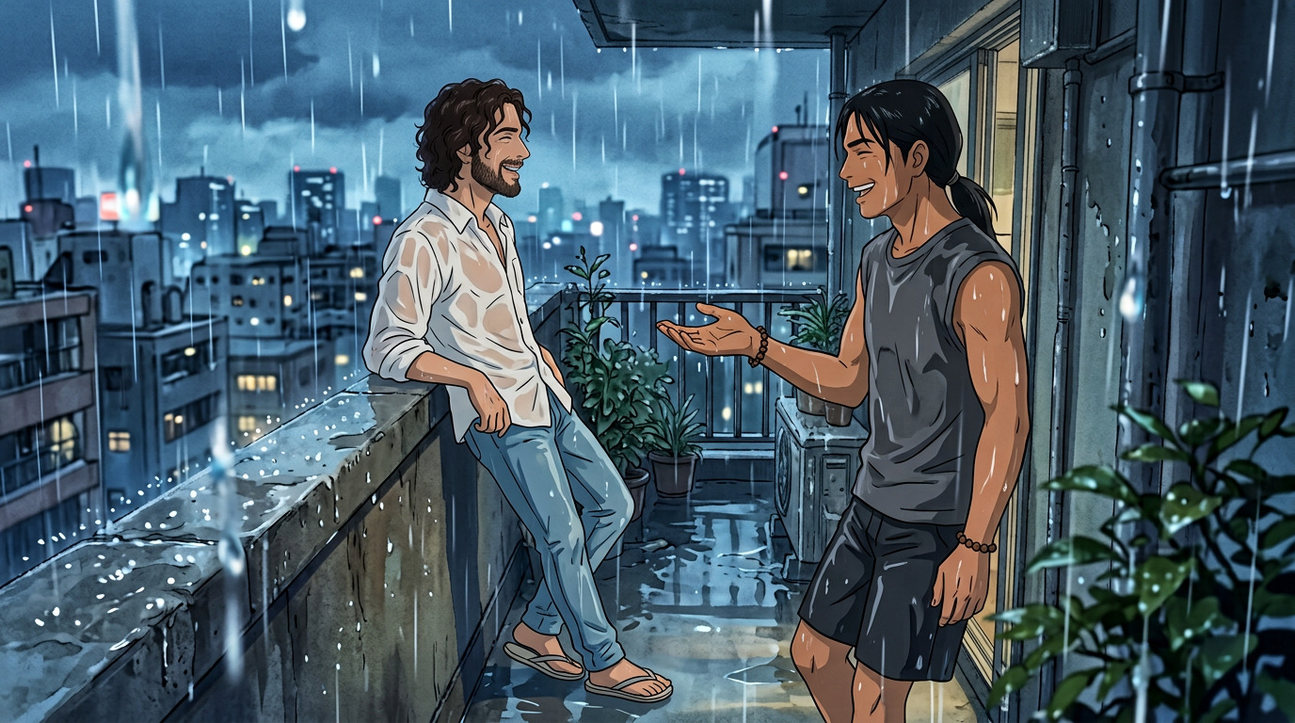
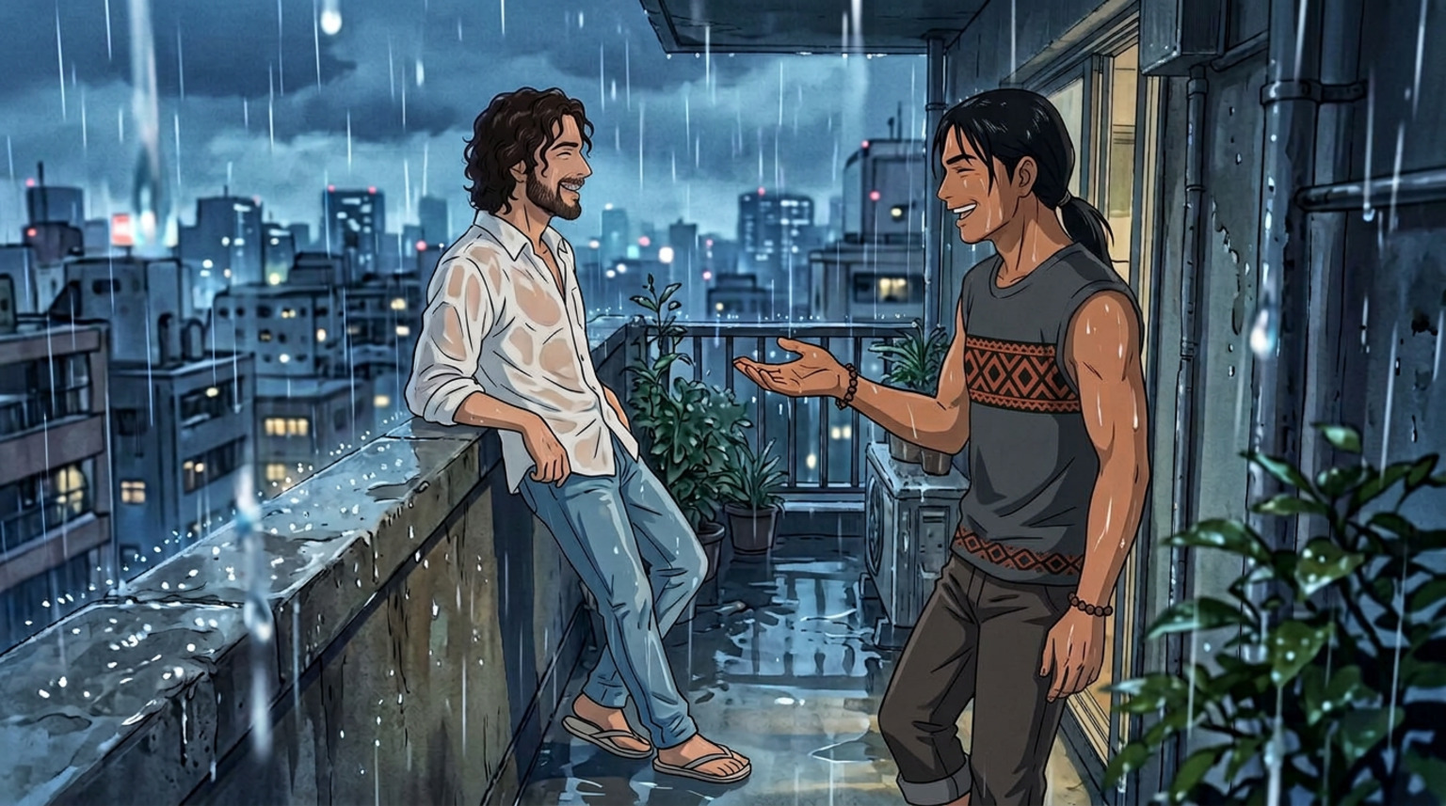
Padroniza o figurino do Tupa em todos os frames e corrige frames duplicados do ep03

diff --git a/historias/santos-do-cerrado/episodio-01-quarenta-graus.md b/historias/santos-do-cerrado/episodio-01-quarenta-graus.md
@@ -36,12 +36,12 @@ Plano aéreo de Cuiabá ao meio-dia com calor extremo; a câmera desce lentament
 
 **Prompt da imagem (frame):**
 ```text
-Interior de apartamento vazio em Cuiabá: sala pequena de piso de cerâmica bege, paredes descascadas, janela sem cortina com sol forte entrando e projetando retângulo de luz no chão. JESUS: homem brasileiro de 30 anos, pele morena clara, cabelo castanho-escuro cacheado na altura da nuca, barba curta, camisa de linho branca de botão com mangas dobradas, calça jeans clara, chinelo de dedo, pulseira de couro no pulso — entra sorrindo com uma caixa de papelão nos braços. TUPÃ: homem indígena de 30 anos, pele morena, rosto COMPLETAMENTE BARBEADO, sem barba, sem bigode, sem cavanhaque, sem tatuagens nos braços, cabelo preto liso na altura dos ombros preso em rabo de cavalo baixo, camiseta cinza-escura sem manga com grafismo geométrico guarani no peito, calça de sarja, sandália de couro, pulseira de sementes — atravessa a sala carregando um sofá velho nas costas, tranquilo. ESTILO: anime cinematográfico 2D, cel shading limpo, traço fino, fundo pintado à mão no estilo Ghibli x A-1 Pictures, luz brasileira quente, cores saturadas, grão de filme suave, 16:9, sem texto, sem letreiro, sem logo, sem legenda.
+Interior de apartamento vazio em Cuiabá: sala pequena de piso de cerâmica bege, paredes descascadas, janela sem cortina com sol forte entrando e projetando retângulo de luz no chão. JESUS: homem brasileiro de 30 anos, pele morena clara, cabelo castanho-escuro cacheado na altura da nuca, barba curta, camisa de linho branca de botão com mangas dobradas, calça jeans clara, chinelo de dedo, pulseira de couro no pulso — entra sorrindo com uma caixa de papelão nos braços. TUPÃ: homem indígena de 30 anos, pele morena, rosto COMPLETAMENTE BARBEADO, sem barba, sem bigode, sem cavanhaque, sem tatuagens nos braços, cabelo preto liso na altura dos ombros preso em rabo de cavalo baixo, camiseta regata cinza-escura com UMA faixa horizontal de grafismo geométrico guarani atravessada no peito (losangos e zigue-zagues em terracota e preto) e o mesmo motivo pequeno repetido na barra inferior, calça de sarja, sandália de couro, pulseira de sementes — atravessa a sala carregando um sofá velho nas costas, tranquilo. ESTILO: anime cinematográfico 2D, cel shading limpo, traço fino, fundo pintado à mão no estilo Ghibli x A-1 Pictures, luz brasileira quente, cores saturadas, grão de filme suave, 16:9, sem texto, sem letreiro, sem logo, sem legenda.
 ```
 
 **Prompt do vídeo (8 s):**
 ```text
-Sala vazia de apartamento com sol entrando pela janela. JESUS (camisa de linho branca, cabelo cacheado, barba curta) entra pela porta falando empolgado com uma caixa de papelão nos braços; TUPÃ (camiseta cinza sem manga, cabelo preto preso) atravessa o quadro de um lado ao outro com um sofá nas costas, sem esforço. Câmera travelling lateral lenta acompanhando o movimento, sem cortes. FALA JESUS: "Essa caixa tem dois mil anos e um liquidificador." FALA TUPÃ, sem parar: "Põe na sala." SOM: passos na cerâmica, caixa rangendo, cigarras pela janela. ESTILO: anime cinematográfico 2D, cel shading limpo, fundo pintado à mão, cores quentes, 16:9. SEM legenda.
+Sala vazia de apartamento com sol entrando pela janela. JESUS (camisa de linho branca, cabelo cacheado, barba curta) entra pela porta falando empolgado com uma caixa de papelão nos braços; TUPÃ (camiseta regata cinza-escura com faixa de grafismo guarani no peito, cabelo preto preso) atravessa o quadro de um lado ao outro com um sofá nas costas, sem esforço. Câmera travelling lateral lenta acompanhando o movimento, sem cortes. FALA JESUS: "Essa caixa tem dois mil anos e um liquidificador." FALA TUPÃ, sem parar: "Põe na sala." SOM: passos na cerâmica, caixa rangendo, cigarras pela janela. ESTILO: anime cinematográfico 2D, cel shading limpo, fundo pintado à mão, cores quentes, 16:9. SEM legenda.
 ```
 
 ---
@@ -56,12 +56,12 @@ Sala vazia de apartamento com sol entrando pela janela. JESUS (camisa de linho b
 
 **Prompt da imagem (frame):**
 ```text
-Sala de apartamento popular, luz quente de fim de tarde pela janela. JESUS: homem brasileiro de 30 anos, pele morena clara, cabelo castanho-escuro cacheado na altura da nuca, barba curta, camisa de linho branca de botão com mangas dobradas, calça jeans clara — descalço, agachado de frente para um ventilador de mesa antigo, mãos espalmadas sobre a grade, olhos fechados, com um fio de luz dourada contornando os dedos. TUPÃ: homem indígena de 30 anos, rosto completamente barbeado, sem barba e sem tatuagens nos braços, cabelo preto liso preso em rabo de cavalo baixo, camiseta cinza-escura sem manga com grafismo guarani, calça de sarja, pulseira de sementes, descalço — encostado no batente da porta, braços cruzados, meio-sorriso paciente. Parede com porta-retratos de família, samambaia pendurada e uma TV antiga pequena na estante; paredes domésticas comuns, SEM cruz, SEM crucifixo, SEM imagem religiosa. Sombras longas no piso de cerâmica. ESTILO: anime cinematográfico 2D, cel shading limpo, traço fino, fundo pintado à mão no estilo Ghibli x A-1 Pictures, cores saturadas, grão de filme suave, 16:9, sem texto, sem letreiro, sem logo, sem legenda.
+Sala de apartamento popular, luz quente de fim de tarde pela janela. JESUS: homem brasileiro de 30 anos, pele morena clara, cabelo castanho-escuro cacheado na altura da nuca, barba curta, camisa de linho branca de botão com mangas dobradas, calça jeans clara — descalço, agachado de frente para um ventilador de mesa antigo, mãos espalmadas sobre a grade, olhos fechados, com um fio de luz dourada contornando os dedos. TUPÃ: homem indígena de 30 anos, rosto completamente barbeado, sem barba e sem tatuagens nos braços, cabelo preto liso preso em rabo de cavalo baixo, camiseta regata cinza-escura com UMA faixa horizontal de grafismo geométrico guarani atravessada no peito (losangos e zigue-zagues em terracota e preto) e o mesmo motivo pequeno repetido na barra inferior, calça de sarja, pulseira de sementes, descalço — encostado no batente da porta, braços cruzados, meio-sorriso paciente. Parede com porta-retratos de família, samambaia pendurada e uma TV antiga pequena na estante; paredes domésticas comuns, SEM cruz, SEM crucifixo, SEM imagem religiosa. Sombras longas no piso de cerâmica. ESTILO: anime cinematográfico 2D, cel shading limpo, traço fino, fundo pintado à mão no estilo Ghibli x A-1 Pictures, cores saturadas, grão de filme suave, 16:9, sem texto, sem letreiro, sem logo, sem legenda.
 ```
 
 **Prompt do vídeo (8 s):**
 ```text
-JESUS, de camisa de linho branca, agachado diante do ventilador velho com as mãos sobre a grade e os olhos fechados; um fio de luz dourada percorre seus dedos, brilha mais forte e se apaga — o ventilador não gira. TUPÃ, de camiseta cinza sem manga, observa encostado no batente, cruza os braços e solta o ar pelo nariz com um meio-sorriso. Câmera fixa com aproximação muito lenta. FALA JESUS: "Ventilador abençoado não gira." SOM: silêncio quente, cigarras, um estalo de ventilador tentando ligar. ESTILO: anime cinematográfico 2D, cel shading limpo, fundo pintado à mão, cores quentes, 16:9. SEM legenda.
+JESUS, de camisa de linho branca, agachado diante do ventilador velho com as mãos sobre a grade e os olhos fechados; um fio de luz dourada percorre seus dedos, brilha mais forte e se apaga — o ventilador não gira. TUPÃ, de camiseta regata cinza-escura com faixa de grafismo guarani no peito, observa encostado no batente, cruza os braços e solta o ar pelo nariz com um meio-sorriso. Câmera fixa com aproximação muito lenta. FALA JESUS: "Ventilador abençoado não gira." SOM: silêncio quente, cigarras, um estalo de ventilador tentando ligar. ESTILO: anime cinematográfico 2D, cel shading limpo, fundo pintado à mão, cores quentes, 16:9. SEM legenda.
 ```
 
 ---
@@ -96,7 +96,7 @@ Chuva forte cai de repente sobre uma rua de bairro em Cuiabá: as poças explode
 
 **Prompt da imagem (frame):**
 ```text
-Varanda pequena de apartamento com mureta de concreto molhada e piso escorregadio. JESUS (30 anos, cabelo cacheado castanho-escuro, barba curta, camisa de linho branca encharcada colada, calça jeans, chinelo) e TUPÃ (30 anos, cabelo preto liso preso em rabo de cavalo, camiseta cinza sem manga encharcada, pulseira de sementes) encostados na mureta, de perfil, encharcados e rindo. Tupã estende a mão aberta na chuva. Gotas em primeiro plano desfocadas. Céu azul-chumbo ao fundo. ESTILO: anime cinematográfico 2D, cel shading limpo, traço fino, pintado à mão no estilo Ghibli x A-1 Pictures, cores saturadas, grão de filme suave, 16:9, sem texto, sem letreiro, sem logo, sem legenda.
+Varanda pequena de apartamento com mureta de concreto molhada e piso escorregadio. JESUS (30 anos, cabelo cacheado castanho-escuro, barba curta, camisa de linho branca encharcada colada, calça jeans, chinelo) e TUPÃ (30 anos, cabelo preto liso preso em rabo de cavalo, camiseta regata cinza-escura com faixa de grafismo guarani no peito encharcada, pulseira de sementes) encostados na mureta, de perfil, encharcados e rindo. Tupã estende a mão aberta na chuva. Gotas em primeiro plano desfocadas. Céu azul-chumbo ao fundo. ESTILO: anime cinematográfico 2D, cel shading limpo, traço fino, pintado à mão no estilo Ghibli x A-1 Pictures, cores saturadas, grão de filme suave, 16:9, sem texto, sem letreiro, sem logo, sem legenda.
 ```
 
 **Prompt do vídeo (8 s):**

diff --git a/historias/santos-do-cerrado/episodio-03-o-ipe-do-estacionamento.md b/historias/santos-do-cerrado/episodio-03-o-ipe-do-estacionamento.md
@@ -19,7 +19,7 @@ Terreno baldio entre dois prédios baixos em Cuiabá: capim seco amarelado, entu
 
 **Prompt do vídeo (8 s):**
 ```text
-Travelling lateral lento diante de um terreno baldio com capim seco e entulho, com um ipê nu no centro; a câmera para e DONA NILZA (senhora de 68 anos, cabelo grisalho armado, óculos redondos na corrente, vestido floral azul) entra no quadro segurando um regador de plástico verde e aponta para a árvore. JESUS (camisa de linho branca, cabelo cacheado, barba curta) e TUPÃ (camiseta cinza sem manga, rosto barbeado, cabelo preto preso) param atrás dela com sacolas de feira de palha, olhando o ipê. O capim se dobra com o vento seco. FALA NILZA: "Setenta anos esse ipê. Semana que vem vem a máquina." SOM: vento seco, britadeira distante, cigarras. ESTILO: anime cinematográfico 2D, cel shading limpo, pintado à mão, paleta seca, 16:9. SEM legenda.
+Travelling lateral lento diante de um terreno baldio com capim seco e entulho, com um ipê nu no centro; a câmera para e DONA NILZA (senhora de 68 anos, cabelo grisalho armado, óculos redondos na corrente, vestido floral azul) entra no quadro segurando um regador de plástico verde e aponta para a árvore. JESUS (camisa de linho branca, cabelo cacheado, barba curta) e TUPÃ (camiseta regata cinza-escura com faixa de grafismo guarani no peito, rosto barbeado, cabelo preto preso) param atrás dela com sacolas de feira de palha, olhando o ipê. O capim se dobra com o vento seco. FALA NILZA: "Setenta anos esse ipê. Semana que vem vem a máquina." SOM: vento seco, britadeira distante, cigarras. ESTILO: anime cinematográfico 2D, cel shading limpo, pintado à mão, paleta seca, 16:9. SEM legenda.
 ```
 
 ---
@@ -34,7 +34,7 @@ Travelling lateral lento diante de um terreno baldio com capim seco e entulho, c
 
 **Prompt da imagem (frame):**
 ```text
-Calçada de bairro em Cuiabá, em frente a um terreno baldio com ipê seco ao fundo. Três personagens. DONA NILZA: senhora brasileira de 68 anos, pele parda, cabelo grisalho curto e armado, óculos redondos presos por corrente no pescoço, vestido floral azul, chinelo, segurando um regador de plástico verde e apontando para a árvore. JESUS: homem brasileiro de 30 anos, pele morena clara, cabelo castanho-escuro cacheado na altura da nuca, barba curta, camisa de linho branca de botão com mangas dobradas, calça jeans clara, chinelo de dedo, com uma sacola de feira de palha. TUPÃ: homem indígena de 30 anos, pele morena, rosto COMPLETAMENTE BARBEADO (sem barba, sem bigode, sem cavanhaque), sem tatuagens nos braços, cabelo preto liso na altura dos ombros preso em rabo de cavalo baixo, camiseta cinza-escura sem manga com grafismo geométrico guarani em vermelho e preto no peito, calça de sarja escura, sandália de couro, pulseira de sementes, com uma sacola de feira de palha. Luz forte de fim de manhã, sombras curtas. ESTILO: anime cinematográfico 2D, cel shading limpo, traço fino, fundo pintado à mão no estilo Ghibli x A-1 Pictures, cores quentes, grão de filme suave, 16:9, sem texto, sem letreiro, sem logo, sem legenda.
+Calçada de bairro em Cuiabá, em frente a um terreno baldio com ipê seco ao fundo. Três personagens. DONA NILZA: senhora brasileira de 68 anos, pele parda, cabelo grisalho curto e armado, óculos redondos presos por corrente no pescoço, vestido floral azul, chinelo, segurando um regador de plástico verde e apontando para a árvore. JESUS: homem brasileiro de 30 anos, pele morena clara, cabelo castanho-escuro cacheado na altura da nuca, barba curta, camisa de linho branca de botão com mangas dobradas, calça jeans clara, chinelo de dedo, com uma sacola de feira de palha. TUPÃ: homem indígena de 30 anos, pele morena, rosto COMPLETAMENTE BARBEADO (sem barba, sem bigode, sem cavanhaque), sem tatuagens nos braços, cabelo preto liso na altura dos ombros preso em rabo de cavalo baixo, camiseta regata cinza-escura com UMA faixa horizontal de grafismo geométrico guarani atravessada no peito (losangos e zigue-zagues em terracota e preto) e o mesmo motivo pequeno repetido na barra inferior, calça de sarja escura, sandália de couro, pulseira de sementes, com uma sacola de feira de palha. Luz forte de fim de manhã, sombras curtas. ESTILO: anime cinematográfico 2D, cel shading limpo, traço fino, fundo pintado à mão no estilo Ghibli x A-1 Pictures, cores quentes, grão de filme suave, 16:9, sem texto, sem letreiro, sem logo, sem legenda.
 ```
 
 **Prompt do vídeo (8 s):**
@@ -54,7 +54,7 @@ Plano médio frontal na calçada: DONA NILZA gesticula com o regador verde na di
 
 **Prompt da imagem (frame):**
 ```text
-Terreno baldio de capim seco. TUPÃ: homem indígena de 30 anos, pele morena, rosto COMPLETAMENTE BARBEADO (sem barba, sem bigode, sem cavanhaque), sem tatuagens nos braços, cabelo preto liso na altura dos ombros preso em rabo de cavalo baixo, camiseta cinza-escura sem manga com grafismo geométrico guarani em vermelho e preto no peito, calça de sarja escura, sandália de couro, pulseira de sementes — de pé, com a palma aberta encostada no tronco cinza rachado de um ipê nu, olhos fechados, expressão concentrada. Um fio de luz verde-esmeralda corre pela casca sob a mão dele, descendo em direção ao chão. Poeira suspensa no ar, luz lateral dourada. ESTILO: anime cinematográfico 2D, cel shading limpo, traço fino, fundo pintado à mão no estilo Ghibli x A-1 Pictures, cores saturadas no ponto de luz, grão de filme suave, 16:9, sem texto, sem letreiro, sem logo, sem legenda.
+Terreno baldio de capim seco. TUPÃ: homem indígena de 30 anos, pele morena, rosto COMPLETAMENTE BARBEADO (sem barba, sem bigode, sem cavanhaque), sem tatuagens nos braços, cabelo preto liso na altura dos ombros preso em rabo de cavalo baixo, camiseta regata cinza-escura com UMA faixa horizontal de grafismo geométrico guarani atravessada no peito (losangos e zigue-zagues em terracota e preto) e o mesmo motivo pequeno repetido na barra inferior, calça de sarja escura, sandália de couro, pulseira de sementes — de pé, com a palma aberta encostada no tronco cinza rachado de um ipê nu, olhos fechados, expressão concentrada. Um fio de luz verde-esmeralda corre pela casca sob a mão dele, descendo em direção ao chão. Poeira suspensa no ar, luz lateral dourada. ESTILO: anime cinematográfico 2D, cel shading limpo, traço fino, fundo pintado à mão no estilo Ghibli x A-1 Pictures, cores saturadas no ponto de luz, grão de filme suave, 16:9, sem texto, sem letreiro, sem logo, sem legenda.
 ```
 
 **Prompt do vídeo (8 s):**
@@ -74,7 +74,7 @@ TUPÃ caminha devagar até o ipê, encosta a palma da mão no tronco rachado e f
 
 **Prompt da imagem (frame):**
 ```text
-Terreno baldio à noite sob luar azul, tronco de ipê no centro. TUPÃ: homem indígena de 30 anos, pele morena, rosto COMPLETAMENTE BARBEADO (sem barba, sem bigode, sem cavanhaque), sem tatuagens nos braços, cabelo preto liso preso em rabo de cavalo baixo, camiseta cinza-escura sem manga com grafismo geométrico guarani em vermelho e preto no peito, calça de sarja escura, pulseira de sementes — de joelhos no chão, cavando com as mãos nuas ao redor da base do tronco, expondo uma raiz grossa na terra escura. Ao lado, JESUS: homem brasileiro de 30 anos, pele morena clara, cabelo castanho-escuro cacheado na altura da nuca, barba curta, camisa de linho branca com mangas dobradas, calça jeans clara — de joelhos, com as duas mãos abertas sobre a raiz, uma luz dourada fraca escorrendo entre os dedos para dentro da terra, partículas de luz subindo. Paleta azul noturna com ponto focal dourado. ESTILO: anime cinematográfico 2D, cel shading limpo, traço fino, fundo pintado à mão no estilo Ghibli x A-1 Pictures, grão de filme suave, 16:9, sem texto, sem letreiro, sem logo, sem legenda.
+Terreno baldio à noite sob luar azul, tronco de ipê no centro. TUPÃ: homem indígena de 30 anos, pele morena, rosto COMPLETAMENTE BARBEADO (sem barba, sem bigode, sem cavanhaque), sem tatuagens nos braços, cabelo preto liso preso em rabo de cavalo baixo, camiseta regata cinza-escura com UMA faixa horizontal de grafismo geométrico guarani atravessada no peito (losangos e zigue-zagues em terracota e preto) e o mesmo motivo pequeno repetido na barra inferior, calça de sarja escura, pulseira de sementes — de joelhos no chão, cavando com as mãos nuas ao redor da base do tronco, expondo uma raiz grossa na terra escura. Ao lado, JESUS: homem brasileiro de 30 anos, pele morena clara, cabelo castanho-escuro cacheado na altura da nuca, barba curta, camisa de linho branca com mangas dobradas, calça jeans clara — de joelhos, com as duas mãos abertas sobre a raiz, uma luz dourada fraca escorrendo entre os dedos para dentro da terra, partículas de luz subindo. Paleta azul noturna com ponto focal dourado. ESTILO: anime cinematográfico 2D, cel shading limpo, traço fino, fundo pintado à mão no estilo Ghibli x A-1 Pictures, grão de filme suave, 16:9, sem texto, sem letreiro, sem logo, sem legenda.
 ```
 
 **Prompt do vídeo (8 s):**

diff --git a/historias/santos-do-cerrado/episodio-02-festa-do-bairro.md b/historias/santos-do-cerrado/episodio-02-festa-do-bairro.md
@@ -19,7 +19,7 @@ Muro de quintal em bairro brasileiro, pintado de azul claro desbotado e descasca
 
 **Prompt do vídeo (8 s):**
 ```text
-Travelling lateral lento ao longo de um muro azul desbotado coberto de bandeirinhas de papel que balançam ao vento, parando no cartaz de festa junina. DONA NILZA (senhora de 68 anos, cabelo grisalho armado, óculos redondos na corrente, vestido floral azul) entra no quadro pela direita e entrega um papel dobrado na mão de JESUS (camisa de linho branca, cabelo cacheado, barba curta); TUPÃ (camiseta cinza sem manga, cabelo preto preso) aparece atrás com um martelo apoiado no ombro, já pronto para trabalhar. FALA NILZA: "Hoje tem festa no quintal." FALA JESUS: "A gente vai!" SOM: sanfona distante, risadas, bandeirinhas estalando ao vento. ESTILO: anime cinematográfico 2D, cel shading limpo, pintado à mão, cores quentes, 16:9. SEM legenda.
+Travelling lateral lento ao longo de um muro azul desbotado coberto de bandeirinhas de papel que balançam ao vento, parando no cartaz de festa junina. DONA NILZA (senhora de 68 anos, cabelo grisalho armado, óculos redondos na corrente, vestido floral azul) entra no quadro pela direita e entrega um papel dobrado na mão de JESUS (camisa de linho branca, cabelo cacheado, barba curta); TUPÃ (camiseta regata cinza-escura com faixa de grafismo guarani no peito, cabelo preto preso) aparece atrás com um martelo apoiado no ombro, já pronto para trabalhar. FALA NILZA: "Hoje tem festa no quintal." FALA JESUS: "A gente vai!" SOM: sanfona distante, risadas, bandeirinhas estalando ao vento. ESTILO: anime cinematográfico 2D, cel shading limpo, pintado à mão, cores quentes, 16:9. SEM legenda.
 ```
 
 ---
@@ -34,7 +34,7 @@ Travelling lateral lento ao longo de um muro azul desbotado coberto de bandeirin
 
 **Prompt da imagem (frame):**
 ```text
-Quintal de terra batida em bairro brasileiro, cordões de bandeirinhas coloridas esticados entre postes e árvores, mesas de plástico e cadeiras de ferro ao fundo, palmeira e muro azul. JESUS: homem brasileiro de 30 anos, pele morena clara, cabelo castanho-escuro cacheado na altura da nuca, barba curta, camisa de linho branca de botão com mangas dobradas, calça jeans clara, chinelo de dedo — em cima de uma escada de alumínio, pendurando bandeirinhas, rindo. TUPÃ: homem indígena de 30 anos, rosto completamente barbeado, sem barba e sem tatuagens nos braços, cabelo preto liso preso em rabo de cavalo baixo, camiseta cinza-escura sem manga com grafismo geométrico guarani no peito, calça de sarja, sandália de couro — embaixo, segurando a escada com uma mão e um martelo na outra, olhando para cima. Câmera contra-plongée, céu de fim de tarde. ESTILO: anime cinematográfico 2D, cel shading limpo, traço fino, fundo pintado à mão no estilo Ghibli x A-1 Pictures, cores saturadas, grão de filme suave, 16:9, sem texto, sem letreiro, sem logo, sem legenda.
+Quintal de terra batida em bairro brasileiro, cordões de bandeirinhas coloridas esticados entre postes e árvores, mesas de plástico e cadeiras de ferro ao fundo, palmeira e muro azul. JESUS: homem brasileiro de 30 anos, pele morena clara, cabelo castanho-escuro cacheado na altura da nuca, barba curta, camisa de linho branca de botão com mangas dobradas, calça jeans clara, chinelo de dedo — em cima de uma escada de alumínio, pendurando bandeirinhas, rindo. TUPÃ: homem indígena de 30 anos, rosto completamente barbeado, sem barba e sem tatuagens nos braços, cabelo preto liso preso em rabo de cavalo baixo, camiseta regata cinza-escura com UMA faixa horizontal de grafismo geométrico guarani atravessada no peito (losangos e zigue-zagues em terracota e preto) e o mesmo motivo pequeno repetido na barra inferior, calça de sarja, sandália de couro — embaixo, segurando a escada com uma mão e um martelo na outra, olhando para cima. Câmera contra-plongée, céu de fim de tarde. ESTILO: anime cinematográfico 2D, cel shading limpo, traço fino, fundo pintado à mão no estilo Ghibli x A-1 Pictures, cores saturadas, grão de filme suave, 16:9, sem texto, sem letreiro, sem logo, sem legenda.
 ```
 
 **Prompt do vídeo (8 s):**
@@ -74,7 +74,7 @@ Na cozinha comunitária, a massa na tigela sobe sozinha e transborda em pães de
 
 **Prompt da imagem (frame):**
 ```text
-Quintal de festa junina à noite, iluminado por lampiões. No centro, uma pilha alta de lenha apagada. TUPÃ: homem indígena de 30 anos, pele morena, rosto COMPLETAMENTE BARBEADO, sem barba, sem bigode, sem cavanhaque, sem tatuagens nos braços, cabelo preto liso preso em rabo de cavalo baixo, camiseta cinza-escura sem manga com grafismo geométrico guarani no peito, pulseira de sementes — agachado de frente para a lenha, um joelho no chão, mão aberta sobre a madeira, olhar concentrado. Brasas fracas e fumaça fina sob a lenha, luz laranja subindo por baixo do rosto dele. Bandeirinhas desfocadas ao fundo. ESTILO: anime cinematográfico 2D, cel shading limpo, traço fino, fundo pintado à mão no estilo Ghibli x A-1 Pictures, contraste quente e escuro, grão de filme suave, 16:9, sem texto, sem letreiro, sem logo, sem legenda.
+Quintal de festa junina à noite, iluminado por lampiões. No centro, uma pilha alta de lenha apagada. TUPÃ: homem indígena de 30 anos, pele morena, rosto COMPLETAMENTE BARBEADO, sem barba, sem bigode, sem cavanhaque, sem tatuagens nos braços, cabelo preto liso preso em rabo de cavalo baixo, camiseta regata cinza-escura com UMA faixa horizontal de grafismo geométrico guarani atravessada no peito (losangos e zigue-zagues em terracota e preto) e o mesmo motivo pequeno repetido na barra inferior, pulseira de sementes — agachado de frente para a lenha, um joelho no chão, mão aberta sobre a madeira, olhar concentrado. Brasas fracas e fumaça fina sob a lenha, luz laranja subindo por baixo do rosto dele. Bandeirinhas desfocadas ao fundo. ESTILO: anime cinematográfico 2D, cel shading limpo, traço fino, fundo pintado à mão no estilo Ghibli x A-1 Pictures, contraste quente e escuro, grão de filme suave, 16:9, sem texto, sem letreiro, sem logo, sem legenda.
 ```
 
 **Prompt do vídeo (8 s):**

diff --git a/historias/santos-do-cerrado/STATUS.md b/historias/santos-do-cerrado/STATUS.md
@@ -27,6 +27,14 @@ Atualizado em: 23/10/2026 · **Formato final: 5 clipes de 8 s por episódio (40 
 
 ---
 
+## ✅ Uniformização do figurino do Tupã (23/10)
+
+A camiseta do Tupã aparecia com **4 estampas diferentes** entre as imagens. Padronizei todas para o **figurino canônico**: regata cinza-escura com **uma faixa horizontal de grafismo guarani no peito** (losangos e zigue-zagues terracota e preto) + o mesmo motivo pequeno na barra.
+
+Frames refeitos: `ep01/c02`, `ep01/c03`, `ep01/c05` (também trocou o short por calça), `ep02/c02`, `ep02/c04`, `ep03/c02`, `ep03/c03`.
+
+**Referência canônica do figurino:** `imagens/ep01/c02.jpg`. Use-a como imagem de referência ao gerar qualquer cena nova.
+
 ## ✅ Correções aplicadas (23/10)
 
 - `ep03/c02` — Tupã estava **com barba** → regerado **sem barba**.
@@ -47,3 +55,5 @@ Atualizado em: 23/10/2026 · **Formato final: 5 clipes de 8 s por episódio (40 
 Copiar **literalmente** o bloco de personagem e o de estilo do `02-guia-de-producao.md`. Não parafrasear. Se o gerador permitir, usar **seed fixo** e anexar o key visual como referência.
 
 **Tupã é sempre barbeado** (sem barba, sem bigode, sem cavanhaque) e **sem tatuagens nos braços**. **Jesus é o único com barba.** Sempre que a imagem for de interior, evitar cruz/crucifixo na parede — não é o tom da série.
+
+**Figurino fixo do Tupã:** regata cinza-escura com uma faixa horizontal de grafismo guarani no peito + motivo pequeno na barra; calça de sarja escura; sandália de couro; pulseira de sementes. Nunca variar a estampa.

diff --git a/historias/santos-do-cerrado/01-biblia-da-historia.md b/historias/santos-do-cerrado/01-biblia-da-historia.md
@@ -36,7 +36,8 @@ Você sugeriu Tupã (e Oxalá). Ficamos com **TUPÃ**, e por três motivos:
 
 ### TUPÃ — *o que escuta*
 - Aparência: homem indígena de ~30 anos, pele morena, **rosto sempre barbeado** (nunca barba, nunca bigode), **sem tatuagens nos braços**, **cabelo preto liso** na altura dos ombros preso num **rabo de cavalo baixo**, ombros largos, olhar calmo e profundo.
-- Roupa: **camiseta cinza-escura sem manga** com pequeno grafismo geométrico guarani no peito, calça de sarja, sandália de couro, **pulseira de sementes** no pulso.
+- Roupa (figurino fixo, nunca muda): **camiseta regata cinza-escura** com **uma faixa horizontal de grafismo geométrico guarani atravessada no peito** (losangos e zigue-zagues em terracota e preto) e o mesmo motivo pequeno repetido na barra inferior; **calça de sarja escura**; **sandália de couro**; **pulseira de sementes** no pulso direito.
+- ⚠ **Nunca** desenhar o Tupã com estampa diferente: nada de painel branco no peito, nada de estampa só na altura do esterno, nada de regata rasgada. A referência é a imagem `imagens/ep01/c02.jpg`.
 - Personalidade: silencioso, prático, paciente, cozinha no fogo de chão, entende de planta, de bicho e de gente. Não entende celular.
 - Poderes: chama chuva, acende fogo com o olhar, escuta o que a terra fala, e o **olho dele se risca de relâmpago** quando algo o emociona.
 - Defeito: quando fica irritado, queima o aparelho de som.

diff --git a/historias/santos-do-cerrado/02-guia-de-producao.md b/historias/santos-do-cerrado/02-guia-de-producao.md
@@ -47,7 +47,7 @@ O maior problema de IA é a inconsistência de personagem. Três travas resolvem
 
 ```
 JESUS: homem brasileiro de 30 anos, pele morena clara, cabelo castanho-escuro cacheado na altura da nuca, barba curta, camisa de linho branca de botão com mangas dobradas, calça jeans clara, chinelo de dedo, pulseira de couro no pulso.
-TUPÃ: homem indígena de 30 anos, pele morena, rosto COMPLETAMENTE BARBEADO (sem barba, sem bigode, sem cavanhaque), sem tatuagens nos braços, cabelo preto liso na altura dos ombros preso em rabo de cavalo baixo, camiseta cinza-escura sem manga com grafismo geométrico guarani no peito, calça de sarja, sandália de couro, pulseira de sementes no pulso.
+TUPÃ: homem indígena de 30 anos, pele morena, rosto COMPLETAMENTE BARBEADO (sem barba, sem bigode, sem cavanhaque), sem tatuagens nos braços, cabelo preto liso na altura dos ombros preso em rabo de cavalo baixo, camiseta regata cinza-escura com UMA faixa horizontal de grafismo geométrico guarani atravessada no peito (losangos e zigue-zagues em terracota e preto) e o mesmo motivo pequeno repetido na barra inferior, calça de sarja, sandália de couro, pulseira de sementes no pulso.
 ```
 
 ## 4. BLOCO DE ESTILO (copie igual em tudo)
